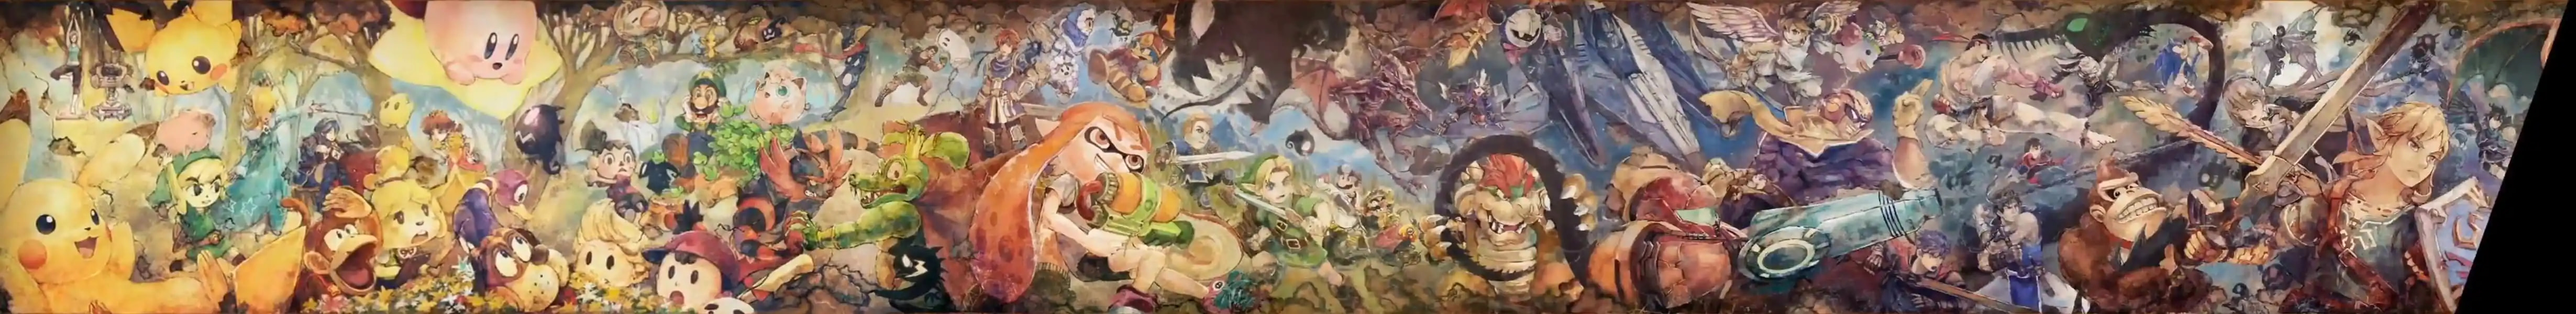
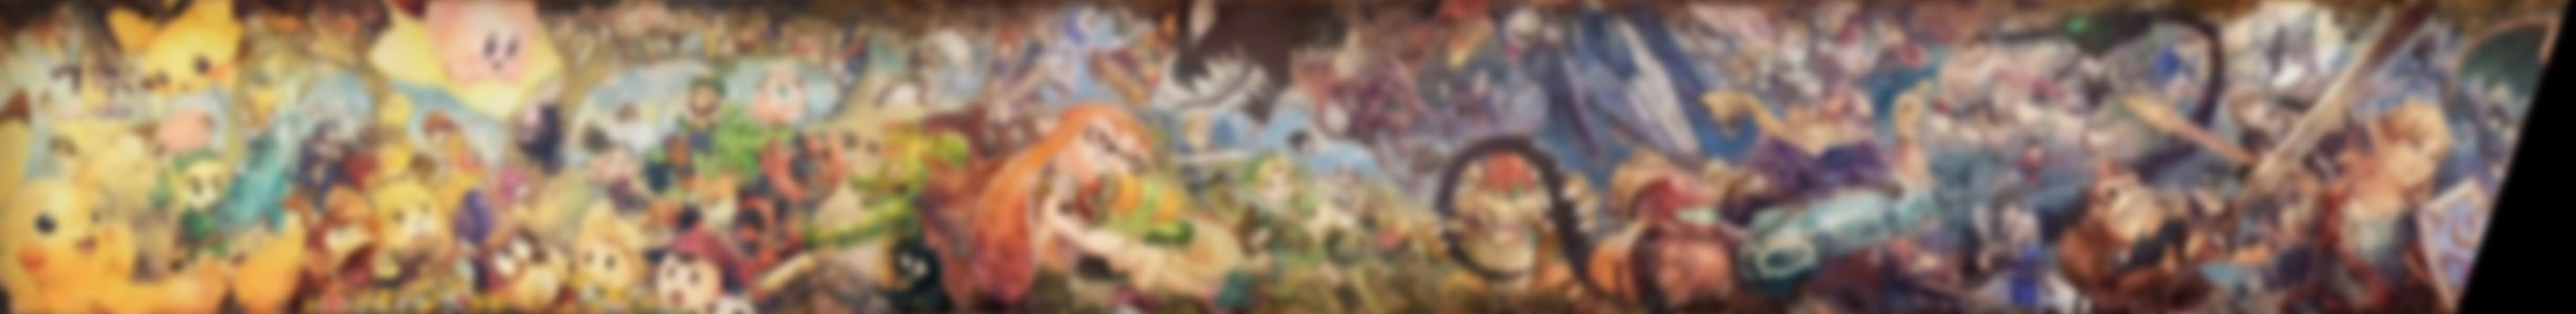
hardcode blur effect to improve performance

Changed region(s): [[0.0, 0.0, 1.0, 1.0], [0.0, 0.96, 0.0622, 1.0]]

diff --git a/agenda/src/agenda.css b/agenda/src/agenda.css
@@ -421,7 +421,7 @@ header .install-btn i {
     background-position: center;
     background-repeat: no-repeat;
     background-attachment: fixed;
-    filter: blur(10px);
+    /* filter: blur(10px); */
   }
   .webp body::before {
     background-image: url("./assets/banner.webp");
